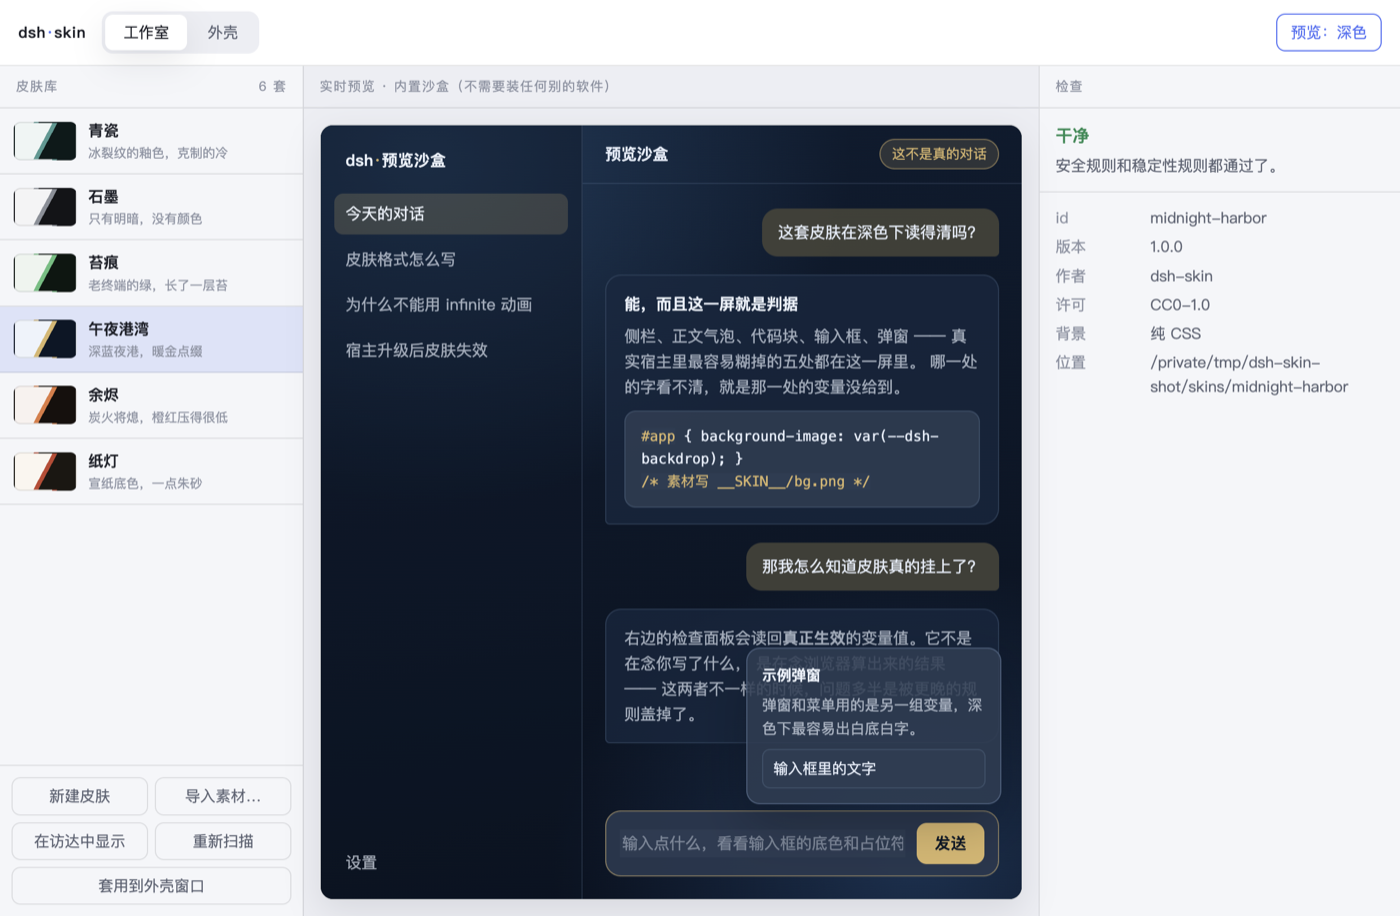
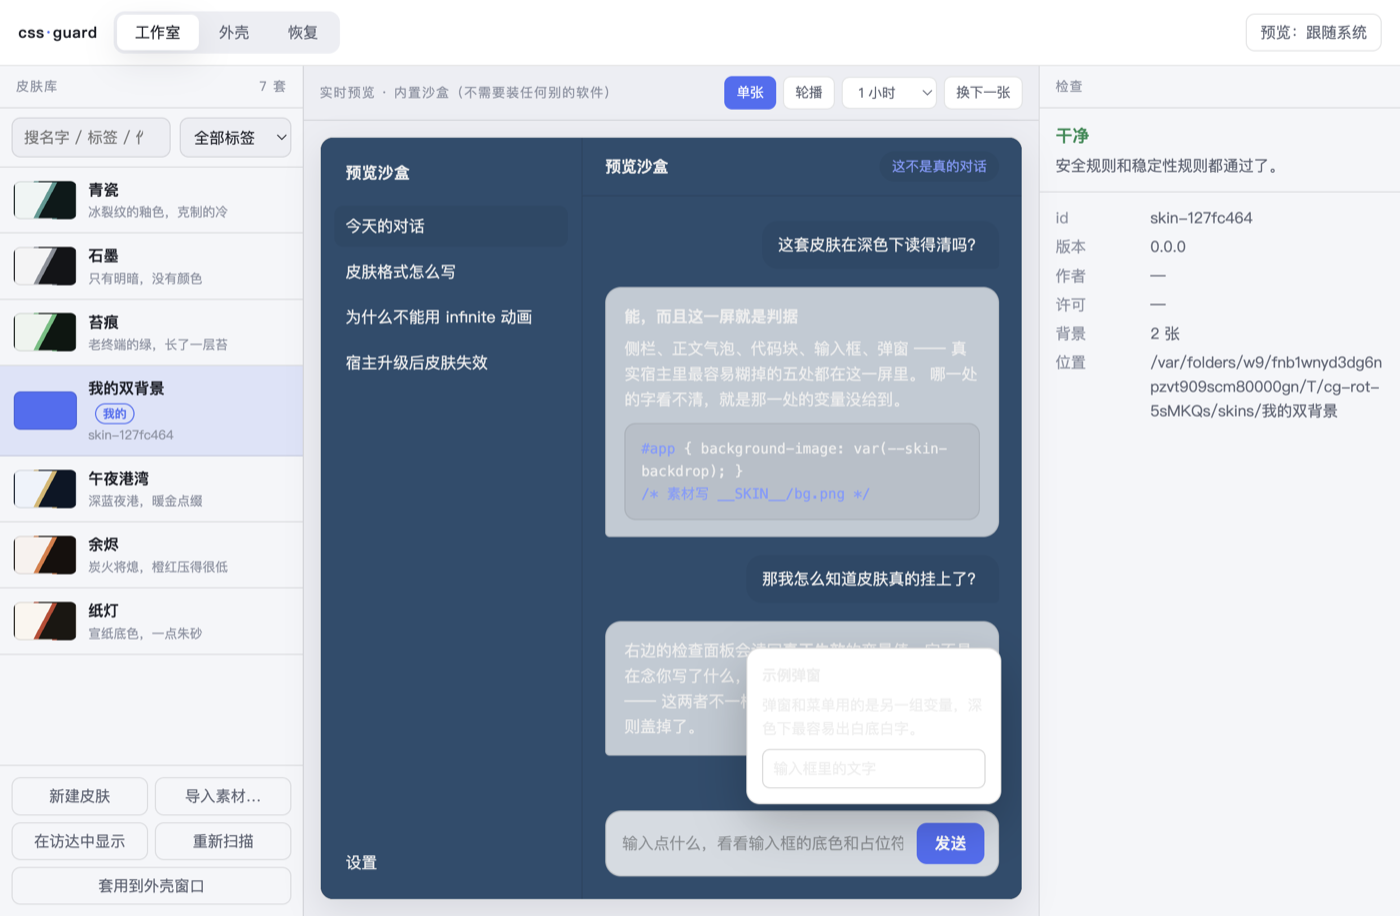
Studio: rotation controls, and fix hidden bars showing through
Adds the last piece the reference gallery had and the studio didn't: a rotation
control bar in the preview header — single / rotate / interval / next — that
appears only when the selected skin has more than one backdrop, so it never
clutters a plain single-background skin. It reflects and drives the same rotate
state the menu already used. Verified against a real two-backdrop skin: the bar
appears, the backdrop paints, the inspector reads "2 backdrops", and the
derived id (skin-<hash>, from a Chinese folder name) shows while the display
name stays intact.

Also a real bug the screenshots caught: an empty warning banner showing at the
top on a healthy install. `[hidden]`'s default `display:none` was being
overridden by the banner's own `display:flex` — so `el.hidden = true` set the
attribute but the element kept its flex box. Same latent issue on the rotation
bar. Both now declare `[hidden]{display:none}` explicitly, with a regression
test that sets .hidden and asserts computed display is none.

28 app end-to-end checks, all suites green.

diff --git a/app/src/renderer/app.js b/app/src/renderer/app.js
@@ -215,13 +215,25 @@ function renderReport(skin, report) {
   box.appendChild(el("div", { class: "meta" }, [dl]));
 }
 
+/** 轮播控制条：只在当前皮肤有超过一张背景时出现，并反映 rotate 开关和间隔。 */
+async function paintRotateBar(skin) {
+  const multi = !!(skin && skin.backdrops && skin.backdrops.length > 1);
+  $("rotate-bar").hidden = !multi;
+  if (!multi) return;
+  const st = await api.state.read();
+  $("mode-single").setAttribute("aria-pressed", String(!st.rotate));
+  $("mode-rotate").setAttribute("aria-pressed", String(st.rotate));
+  const sel = $("interval");
+  if (st.rotateMinutes) sel.value = String(st.rotateMinutes);
+}
+
 /* ── 动作 ───────────────────────────────────────────────────────────── */
 
 async function select(id) {
   ui.current = id;
   renderList();
   const skin = ui.skins.find((s) => s.id === id) || null;
-  $("next").hidden = !(skin && skin.backdrops && skin.backdrops.length > 1);
+  await paintRotateBar(skin);
   if (!skin || skin.broken) { injectPreview(""); renderReport(skin, null); return; }
   const { css, report } = await api.skins.preview(id);
   injectPreview(css);
@@ -330,6 +342,20 @@ function wire() {
     const moved = await api.skins.next(ui.current);
     if (!moved) { toast("这套皮肤只有一张背景"); return; }
     await select(ui.current);
+  });
+  $("mode-single").addEventListener("click", async () => {
+    await api.state.patch({ rotate: false });
+    await paintRotateBar(ui.skins.find((s) => s.id === ui.current));
+    toast("已切到单张");
+  });
+  $("mode-rotate").addEventListener("click", async () => {
+    await api.state.patch({ rotate: true });
+    await paintRotateBar(ui.skins.find((s) => s.id === ui.current));
+    toast("已开启全库轮播");
+  });
+  $("interval").addEventListener("change", async (e) => {
+    await api.state.patch({ rotateMinutes: Number(e.target.value) });
+    toast(`轮播间隔改为 ${e.target.options[e.target.selectedIndex].text}`);
   });
 
   $("open").addEventListener("click", () => openShell($("url").value));

diff --git a/app/src/renderer/app.css b/app/src/renderer/app.css
@@ -170,6 +170,9 @@ input { font: inherit; color: inherit; }
 .toast[data-show="1"] { opacity: 1; }
 
 /* ── 安全模式横幅 ─────────────────────────────────────────────────── */
+/* [hidden] 的默认 display:none 会被下面的 display:flex 覆盖 —— 这类"设了 hidden
+   却还显示"的 bug 只在给元素单独设了 display 时出现。显式让 hidden 优先。 */
+.banner[hidden] { display: none; }
 .banner {
   display: flex; align-items: center; gap: 12px; padding: 10px 16px;
   background: color-mix(in srgb, var(--ui-warn) 16%, var(--ui-panel));
@@ -241,3 +244,13 @@ input { font: inherit; color: inherit; }
 .skin .hover-acts button:hover { color: var(--ui-text); border-color: var(--ui-accent); }
 .skin .hover-acts button.danger:hover { color: var(--ui-error); border-color: var(--ui-error); }
 .empty-filtered { padding: 24px 14px; text-align: center; color: var(--ui-faint); font-size: 13px; }
+
+/* ── 轮播控制条（只在多背景皮肤时出现） ─────────────────────────────── */
+.rotate-bar[hidden] { display: none; }
+.rotate-bar { display: flex; gap: 6px; align-items: center; }
+.rotate-bar button, .rotate-bar select {
+  padding: 4px 10px; border-radius: 7px; font-size: 12px; font-family: inherit;
+  border: 1px solid var(--ui-line); background: var(--ui-panel); color: var(--ui-dim); cursor: default;
+}
+.rotate-bar button:hover { color: var(--ui-text); border-color: var(--ui-accent); }
+.rotate-bar button[aria-pressed="true"] { background: var(--ui-accent); border-color: transparent; color: #fff; }

diff --git a/app/test/smoke.js b/app/test/smoke.js
@@ -188,6 +188,23 @@ app.whenReady().then(async () => {
     const appDir = path.join(__dirname, "..");
     const written = rescue.write(process.execPath, [appDir]);
     check("急救文件写出来了", written.ok, written.dir || written.error);
+
+    /* 11. 回归：设了 hidden 属性的元素必须真的不显示。
+           .banner / .rotate-bar 有自定义 display:flex，会覆盖 [hidden] 的
+           默认 display:none —— 表现是"横幅设了 hidden 却还在界面上占一条"。 */
+    const win2 = BrowserWindow.getAllWindows()[0];
+    if (win2 && !win2.isDestroyed()) {
+      const hiddenWorks = await win2.webContents.executeJavaScript(`(() => {
+        const check = (id) => {
+          const el = document.getElementById(id);
+          if (!el) return "missing:" + id;
+          el.hidden = true;
+          return getComputedStyle(el).display === "none" ? "ok" : ("visible:" + id);
+        };
+        return [check("banner"), check("rotate-bar")].join(",");
+      })()`);
+      check("设了 hidden 的横幅/轮播条真的不显示", hiddenWorks === "ok,ok", hiddenWorks);
+    }
     if (written.ok) {
       const names = fs.readdirSync(written.dir);
       check("五个急救动作 + 一份说明都在", names.length === rescue.SCRIPTS.length + 1, names.join("、"));

diff --git a/app/src/renderer/index.html b/app/src/renderer/index.html
@@ -49,7 +49,17 @@
   <section class="pane" id="preview-pane">
     <header>
       <span class="grow">实时预览 · 内置沙盒（不需要装任何别的软件）</span>
-      <button class="ghost" id="next" hidden>换下一张背景</button>
+      <div class="rotate-bar" id="rotate-bar" hidden>
+        <button class="ghost" id="mode-single" title="固定显示当前这张">单张</button>
+        <button class="ghost" id="mode-rotate" title="在这套皮肤的多张背景间自动轮换">轮播</button>
+        <select id="interval" title="每隔多久换一张">
+          <option value="15">15 分钟</option>
+          <option value="60" selected>1 小时</option>
+          <option value="240">4 小时</option>
+          <option value="1440">24 小时</option>
+        </select>
+        <button class="ghost" id="next">换下一张</button>
+      </div>
     </header>
     <div class="stage"><div class="frame"><iframe id="frame" src="sandbox.html" title="预览"></iframe></div></div>
   </section>
